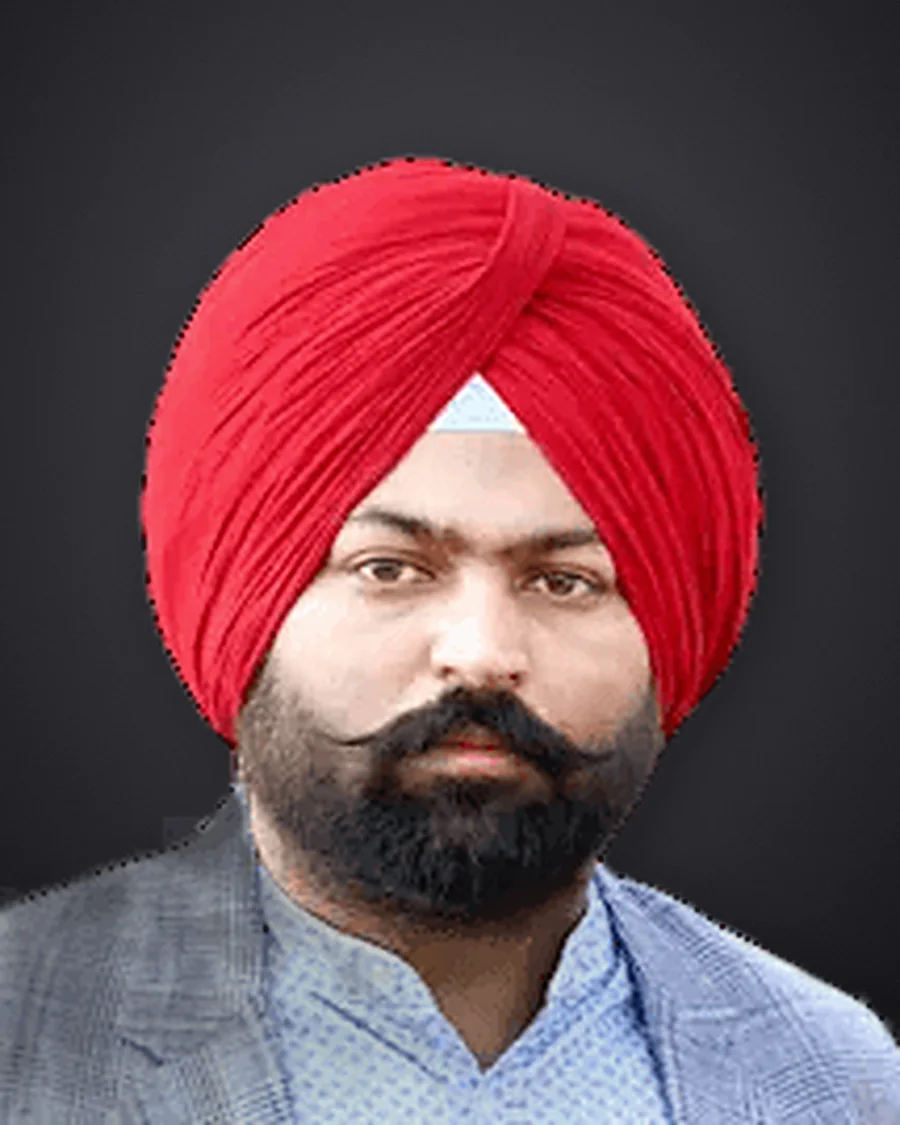
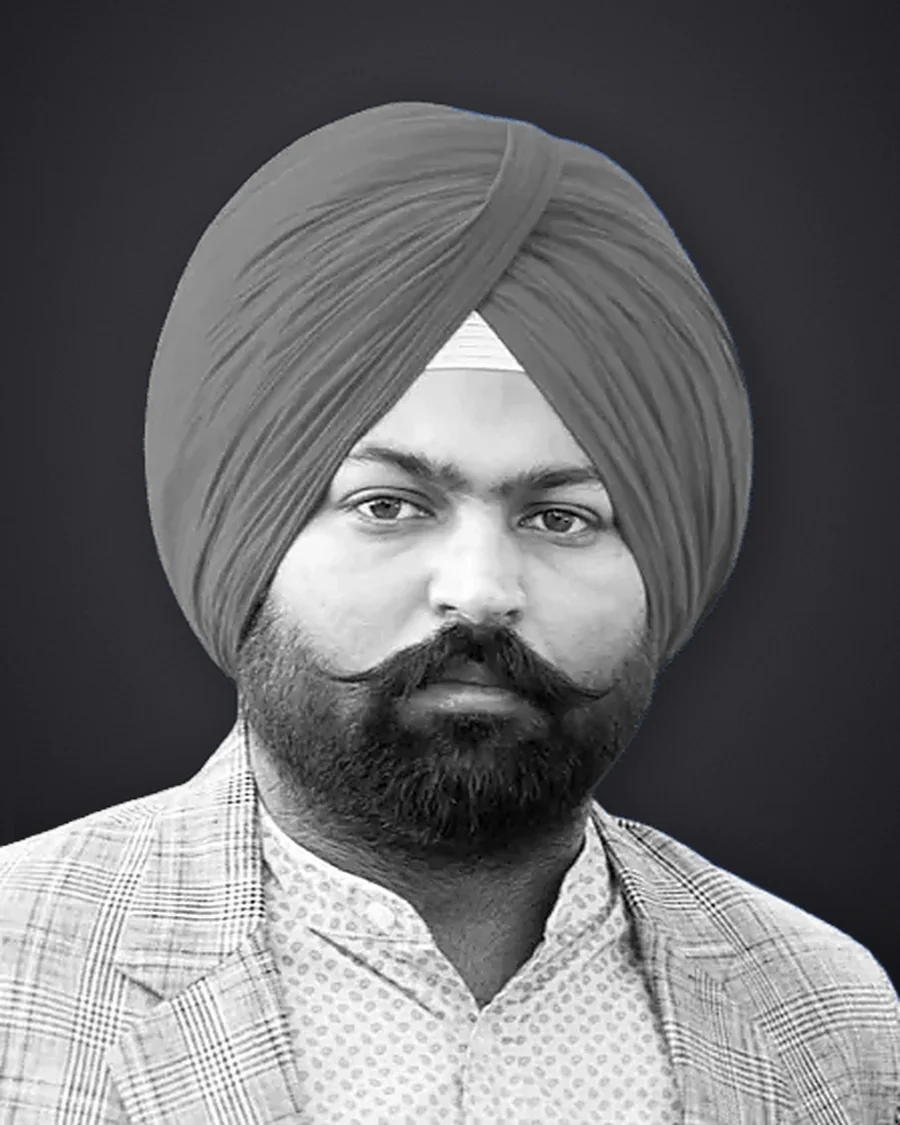
Staging: Aziz Kanwal photo and sharper Jagwinder Singh photo in Our Team
Claude-Session: https://claude.ai/code/session_01DcAt13Rt7zUUkuxJrZzojv

diff --git a/index.html b/index.html
@@ -735,10 +735,10 @@ if(!reduce){var b=new IntersectionObserver(function(e){if(e[0].isIntersecting){b
 <div><h3>Maintenance and support</h3><p>Ongoing updates, monitoring, OS compatibility and performance work long after launch.</p></div>
 <div><h3>SEO and marketing</h3><p>App store optimisation, SEO and performance marketing that bring users in and keep them.</p></div>
 </div></section>
-<section class="team" id="team" aria-labelledby="team-h" aria-roledescription="carousel" style="--tc:#B4232A">
+<section class="team" id="team" aria-labelledby="team-h" aria-roledescription="carousel" style="--tc:#2F4F86">
 <div class="wrap tm-head"><span class="tm-kicker">iApp Technologies · <b>09</b> people</span><h2 id="team-h">Our Team</h2>
 <p>The people who plan, build and look after your product, from first call to long after launch.</p></div>
-<div class="tm-stage" tabindex="0" aria-label="Team members. Use the arrow keys to browse."><figure class="tm-card" data-name="Jagwinder Singh" data-role="CEO and Founder" data-accent="#B4232A" style="--a:#B4232A"><img src="/assets/team/jagwinder-singh.webp" alt="Jagwinder Singh, CEO and Founder" width="900" height="1125" loading="lazy" decoding="async" draggable="false"><figcaption><b>Jagwinder Singh</b><span>CEO and Founder</span></figcaption><i class="tm-idx">01</i></figure><figure class="tm-card" data-name="Jagmeet Singh" data-role="Director of Operations" data-accent="#24427A" style="--a:#24427A"><img src="/assets/team/jagmeet-singh.webp" alt="Jagmeet Singh, Director of Operations" width="900" height="1125" loading="lazy" decoding="async" draggable="false"><figcaption><b>Jagmeet Singh</b><span>Director of Operations</span></figcaption><i class="tm-idx">02</i></figure><figure class="tm-card" data-name="Aziz Kanwal" data-role="VP Sales" data-accent="#6D28D9" style="--a:#6D28D9"><div class="tm-ini" role="img" aria-label="Aziz Kanwal"><span>AK</span></div><figcaption><b>Aziz Kanwal</b><span>VP Sales</span></figcaption><i class="tm-idx">03</i></figure><figure class="tm-card" data-name="Tijender Singh" data-role="Product Team Lead" data-accent="#B0185E" style="--a:#B0185E"><img src="/assets/team/tijender-singh.webp" alt="Tijender Singh, Product Team Lead" width="900" height="1125" loading="lazy" decoding="async" draggable="false"><figcaption><b>Tijender Singh</b><span>Product Team Lead</span></figcaption><i class="tm-idx">04</i></figure><figure class="tm-card" data-name="Pritpal Singh" data-role="Service Team Lead" data-accent="#475569" style="--a:#475569"><img src="/assets/team/pritpal-singh.webp" alt="Pritpal Singh, Service Team Lead" width="900" height="1125" loading="lazy" decoding="async" draggable="false"><figcaption><b>Pritpal Singh</b><span>Service Team Lead</span></figcaption><i class="tm-idx">05</i></figure><figure class="tm-card" data-name="Shahnawaz Jameel" data-role="Project Manager" data-accent="#1D4FC4" style="--a:#1D4FC4"><img src="/assets/team/shahnawaz-jameel.webp" alt="Shahnawaz Jameel, Project Manager" width="900" height="1125" loading="lazy" decoding="async" draggable="false"><figcaption><b>Shahnawaz Jameel</b><span>Project Manager</span></figcaption><i class="tm-idx">06</i></figure><figure class="tm-card" data-name="Heena Khullar" data-role="Head HR" data-accent="#8E2D52" style="--a:#8E2D52"><img src="/assets/team/heena-khullar.webp" alt="Heena Khullar, Head HR" width="900" height="1125" loading="lazy" decoding="async" draggable="false"><figcaption><b>Heena Khullar</b><span>Head HR</span></figcaption><i class="tm-idx">07</i></figure><figure class="tm-card" data-name="Amisha Bhardwaj" data-role="HR" data-accent="#0E6E86" style="--a:#0E6E86"><img src="/assets/team/amisha-bhardwaj.webp" alt="Amisha Bhardwaj, HR" width="900" height="1125" loading="lazy" decoding="async" draggable="false"><figcaption><b>Amisha Bhardwaj</b><span>HR</span></figcaption><i class="tm-idx">08</i></figure><figure class="tm-card" data-name="Ajay Negi" data-role="Solution Architect" data-accent="#6B6458" style="--a:#6B6458"><img src="/assets/team/ajay-negi.webp" alt="Ajay Negi, Solution Architect" width="900" height="1125" loading="lazy" decoding="async" draggable="false"><figcaption><b>Ajay Negi</b><span>Solution Architect</span></figcaption><i class="tm-idx">09</i></figure></div>
+<div class="tm-stage" tabindex="0" aria-label="Team members. Use the arrow keys to browse."><figure class="tm-card" data-name="Jagwinder Singh" data-role="CEO and Founder" data-accent="#2F4F86" style="--a:#2F4F86"><img src="/assets/team/jagwinder-singh.webp" alt="Jagwinder Singh, CEO and Founder" width="900" height="1125" loading="lazy" decoding="async" draggable="false"><figcaption><b>Jagwinder Singh</b><span>CEO and Founder</span></figcaption><i class="tm-idx">01</i></figure><figure class="tm-card" data-name="Jagmeet Singh" data-role="Director of Operations" data-accent="#24427A" style="--a:#24427A"><img src="/assets/team/jagmeet-singh.webp" alt="Jagmeet Singh, Director of Operations" width="900" height="1125" loading="lazy" decoding="async" draggable="false"><figcaption><b>Jagmeet Singh</b><span>Director of Operations</span></figcaption><i class="tm-idx">02</i></figure><figure class="tm-card" data-name="Aziz Kanwal" data-role="VP Sales" data-accent="#5B3F8C" style="--a:#5B3F8C"><img src="/assets/team/aziz-kanwal.webp" alt="Aziz Kanwal, VP Sales" width="900" height="1125" loading="lazy" decoding="async" draggable="false"><figcaption><b>Aziz Kanwal</b><span>VP Sales</span></figcaption><i class="tm-idx">03</i></figure><figure class="tm-card" data-name="Tijender Singh" data-role="Product Team Lead" data-accent="#B0185E" style="--a:#B0185E"><img src="/assets/team/tijender-singh.webp" alt="Tijender Singh, Product Team Lead" width="900" height="1125" loading="lazy" decoding="async" draggable="false"><figcaption><b>Tijender Singh</b><span>Product Team Lead</span></figcaption><i class="tm-idx">04</i></figure><figure class="tm-card" data-name="Pritpal Singh" data-role="Service Team Lead" data-accent="#475569" style="--a:#475569"><img src="/assets/team/pritpal-singh.webp" alt="Pritpal Singh, Service Team Lead" width="900" height="1125" loading="lazy" decoding="async" draggable="false"><figcaption><b>Pritpal Singh</b><span>Service Team Lead</span></figcaption><i class="tm-idx">05</i></figure><figure class="tm-card" data-name="Shahnawaz Jameel" data-role="Project Manager" data-accent="#1D4FC4" style="--a:#1D4FC4"><img src="/assets/team/shahnawaz-jameel.webp" alt="Shahnawaz Jameel, Project Manager" width="900" height="1125" loading="lazy" decoding="async" draggable="false"><figcaption><b>Shahnawaz Jameel</b><span>Project Manager</span></figcaption><i class="tm-idx">06</i></figure><figure class="tm-card" data-name="Heena Khullar" data-role="Head HR" data-accent="#8E2D52" style="--a:#8E2D52"><img src="/assets/team/heena-khullar.webp" alt="Heena Khullar, Head HR" width="900" height="1125" loading="lazy" decoding="async" draggable="false"><figcaption><b>Heena Khullar</b><span>Head HR</span></figcaption><i class="tm-idx">07</i></figure><figure class="tm-card" data-name="Amisha Bhardwaj" data-role="HR" data-accent="#0E6E86" style="--a:#0E6E86"><img src="/assets/team/amisha-bhardwaj.webp" alt="Amisha Bhardwaj, HR" width="900" height="1125" loading="lazy" decoding="async" draggable="false"><figcaption><b>Amisha Bhardwaj</b><span>HR</span></figcaption><i class="tm-idx">08</i></figure><figure class="tm-card" data-name="Ajay Negi" data-role="Solution Architect" data-accent="#6B6458" style="--a:#6B6458"><img src="/assets/team/ajay-negi.webp" alt="Ajay Negi, Solution Architect" width="900" height="1125" loading="lazy" decoding="async" draggable="false"><figcaption><b>Ajay Negi</b><span>Solution Architect</span></figcaption><i class="tm-idx">09</i></figure></div>
 <div class="tm-ctl"><div class="tm-count"><b class="tm-now">01</b> / 09</div>
 <div class="tm-nav"><button type="button" class="tm-btn tm-prev" aria-label="Previous person"><svg viewBox="0 0 24 24" fill="none" stroke="currentColor" stroke-width="2" stroke-linecap="round" stroke-linejoin="round" aria-hidden="true"><path d="M15 5l-7 7 7 7"/></svg></button><div class="tm-dashes"><button type="button" class="tm-dash" aria-label="Show Jagwinder Singh"></button><button type="button" class="tm-dash" aria-label="Show Jagmeet Singh"></button><button type="button" class="tm-dash" aria-label="Show Aziz Kanwal"></button><button type="button" class="tm-dash" aria-label="Show Tijender Singh"></button><button type="button" class="tm-dash" aria-label="Show Pritpal Singh"></button><button type="button" class="tm-dash" aria-label="Show Shahnawaz Jameel"></button><button type="button" class="tm-dash" aria-label="Show Heena Khullar"></button><button type="button" class="tm-dash" aria-label="Show Amisha Bhardwaj"></button><button type="button" class="tm-dash" aria-label="Show Ajay Negi"></button></div><button type="button" class="tm-btn tm-next dark" aria-label="Next person"><svg viewBox="0 0 24 24" fill="none" stroke="currentColor" stroke-width="2" stroke-linecap="round" stroke-linejoin="round" aria-hidden="true"><path d="M9 5l7 7-7 7"/></svg></button></div>
 <div class="tm-hint" aria-hidden="true">Drag · Swipe · Arrows</div></div><p class="vh tm-live" aria-live="polite"></p>

diff --git a/_src/build.py b/_src/build.py
@@ -913,9 +913,9 @@ def spotlight(href):
 <p>Our own AI tools, designed, engineered and shipped by the same team that builds for our clients.</p></div><div class="stack">{cards}</div></section>'''
 
 # Our Team carousel: photos in assets/team/<slug>.webp (studio-treated, 900x1125). photo=None shows an initials card.
-TEAM=[("Jagwinder Singh","CEO and Founder","jagwinder-singh","#B4232A"),
+TEAM=[("Jagwinder Singh","CEO and Founder","jagwinder-singh","#2F4F86"),
       ("Jagmeet Singh","Director of Operations","jagmeet-singh","#24427A"),
-      ("Aziz Kanwal","VP Sales",None,"#6D28D9"),
+      ("Aziz Kanwal","VP Sales","aziz-kanwal","#5B3F8C"),
       ("Tijender Singh","Product Team Lead","tijender-singh","#B0185E"),
       ("Pritpal Singh","Service Team Lead","pritpal-singh","#475569"),
       ("Shahnawaz Jameel","Project Manager","shahnawaz-jameel","#1D4FC4"),
